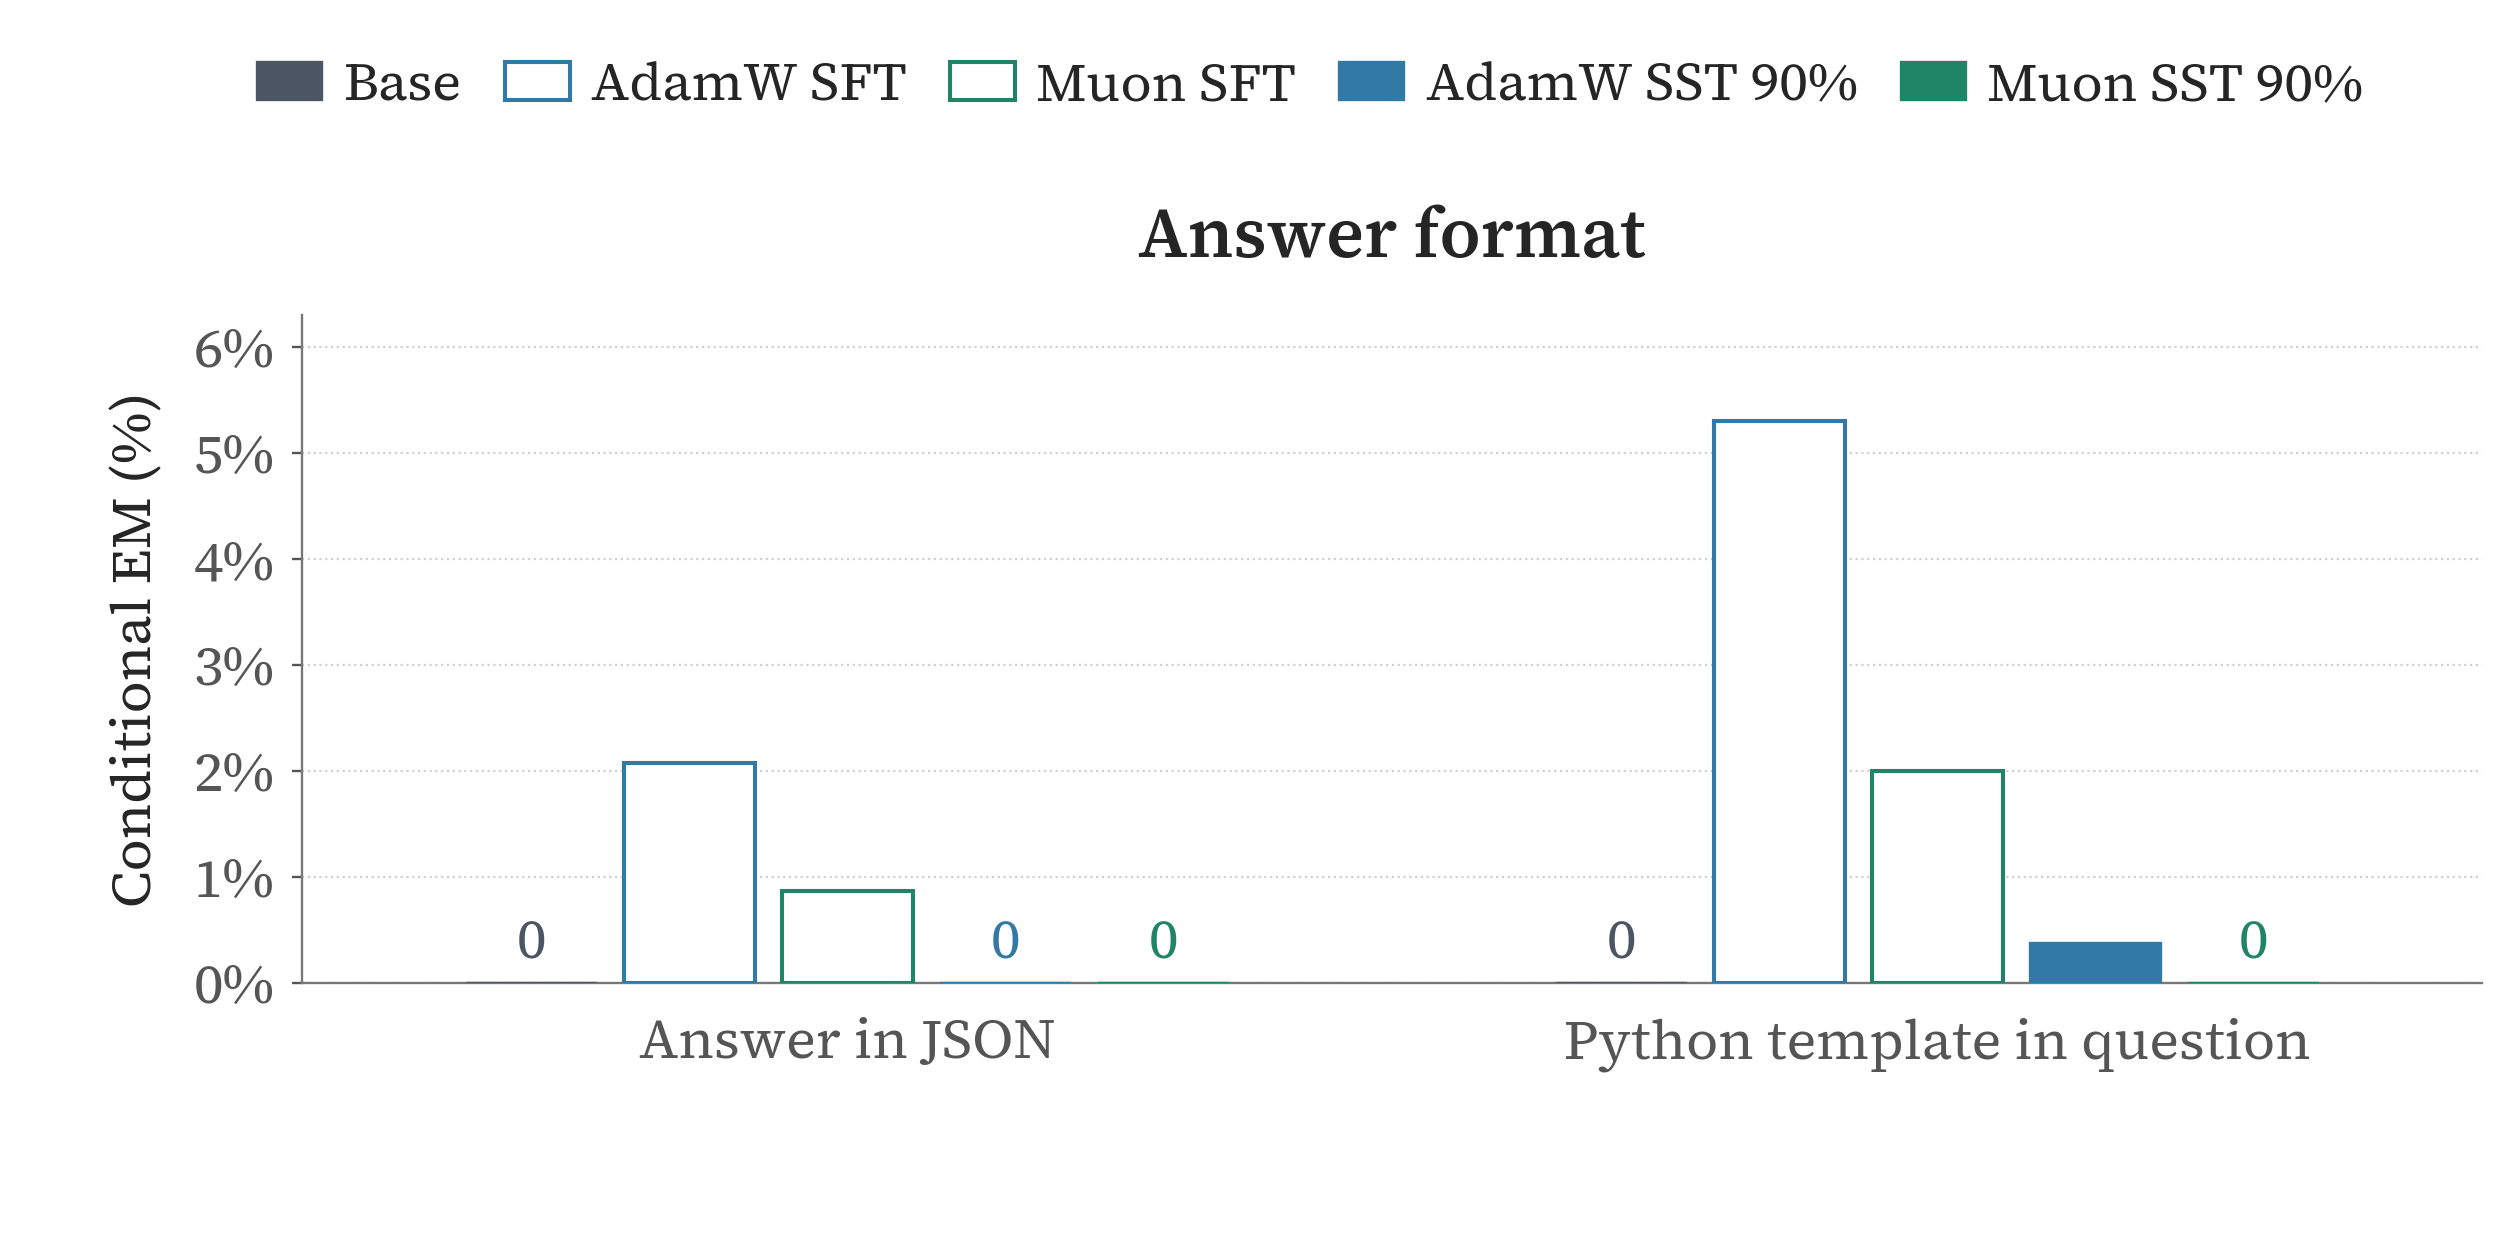
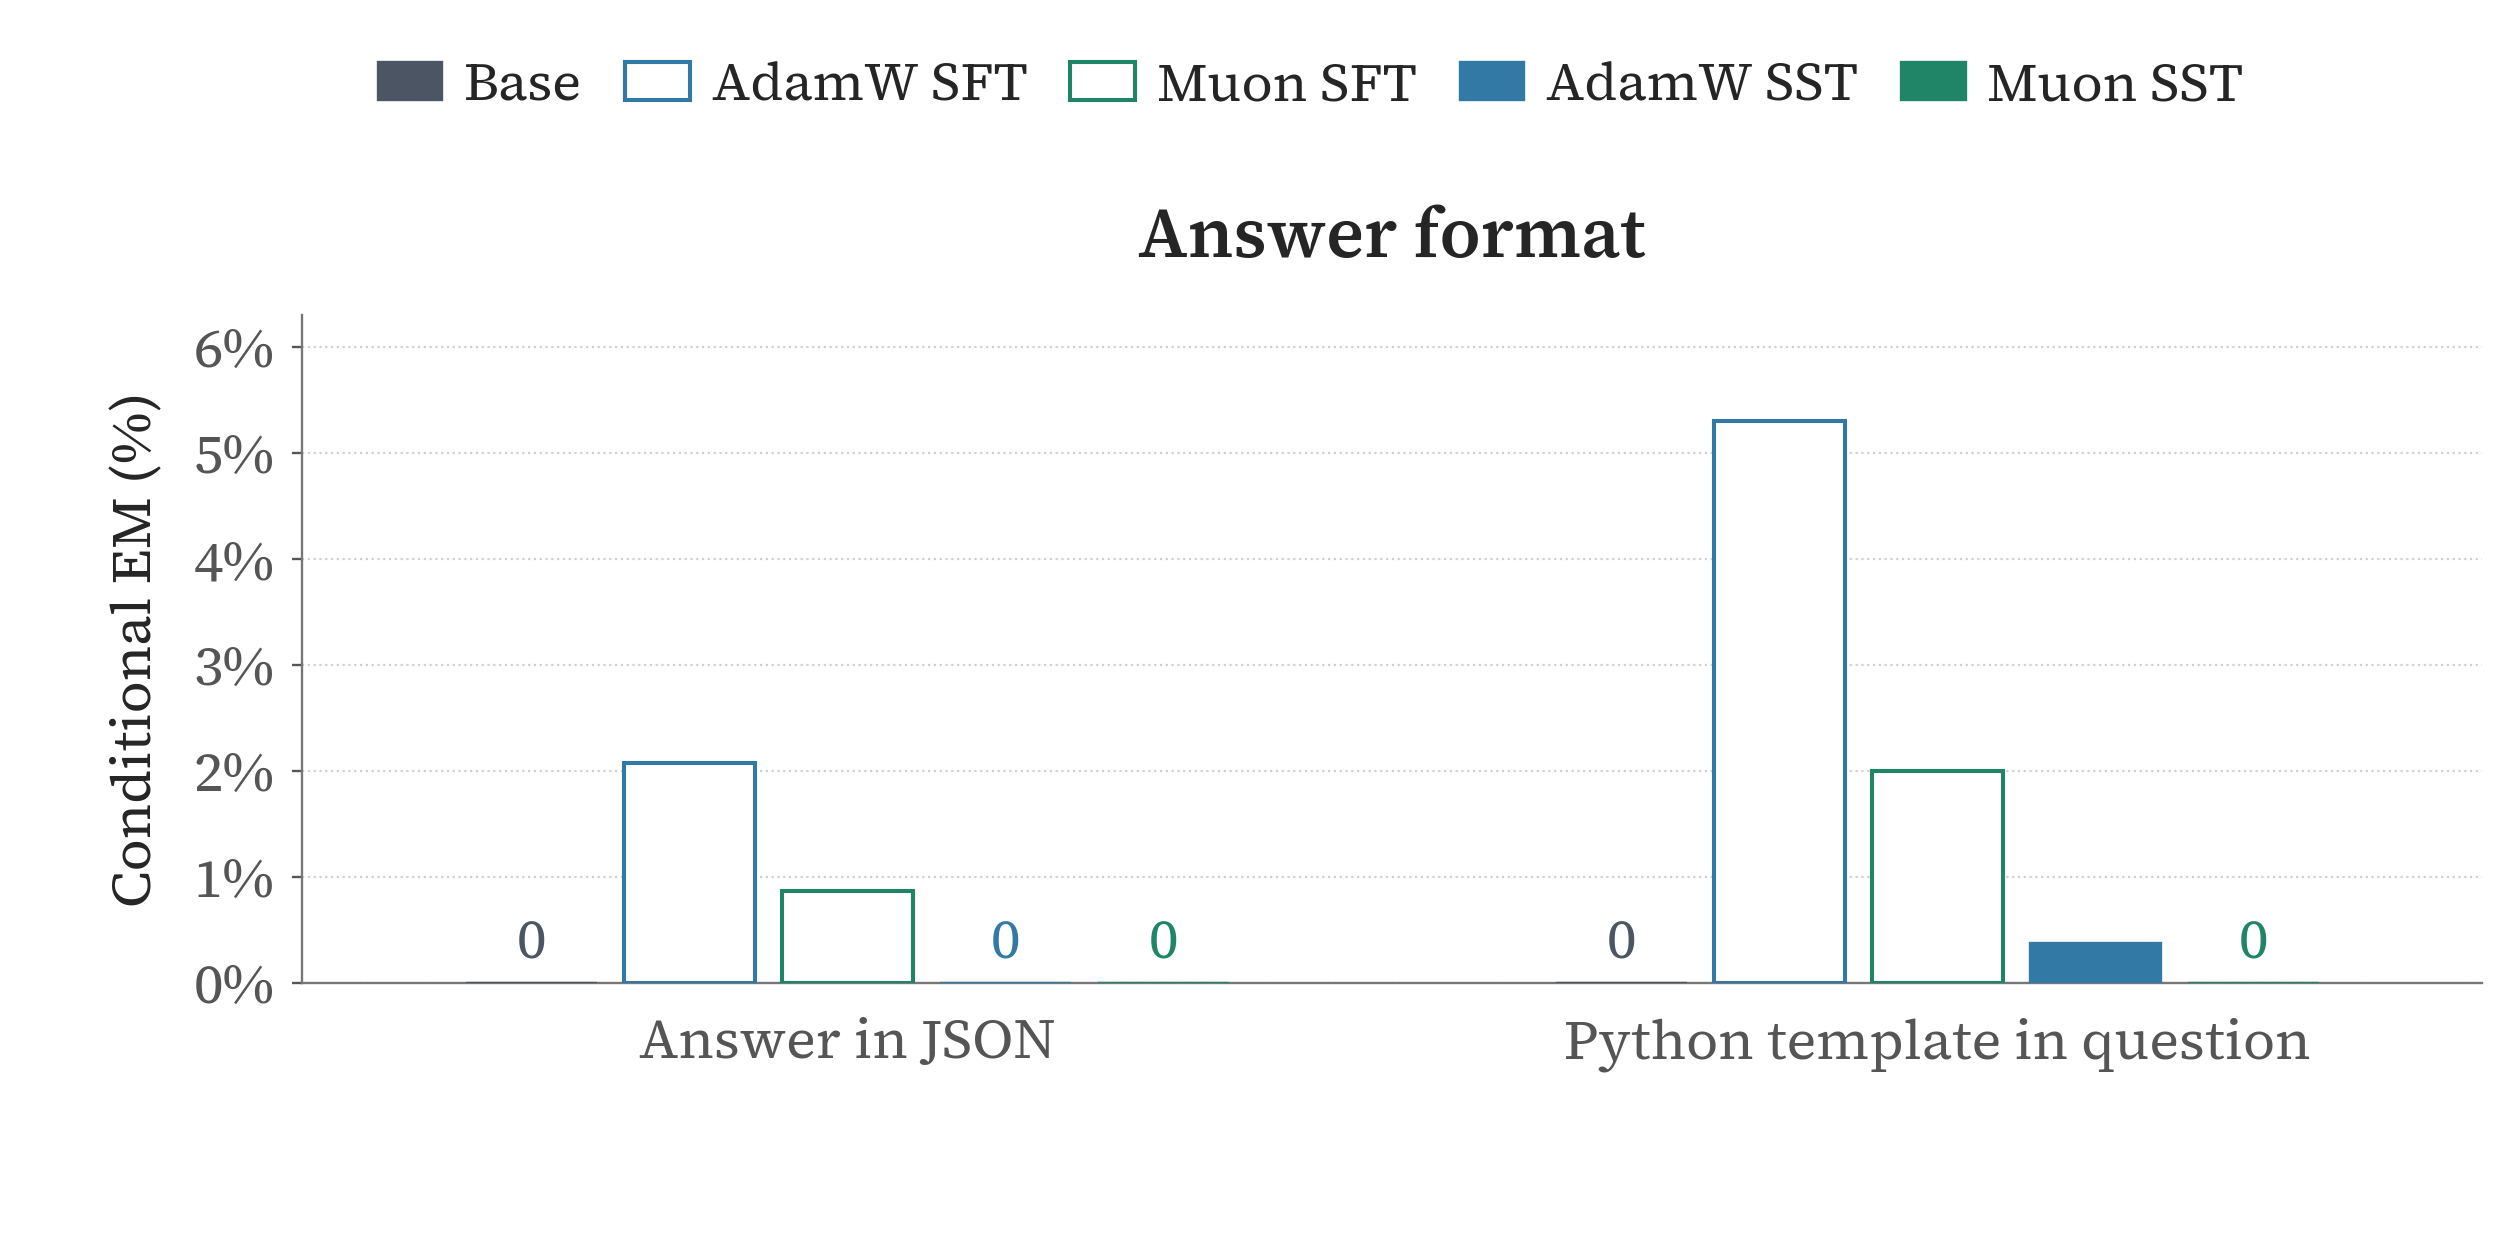
Label subspace tuning as SST in result figures

Changed region(s): [[0.0929, 0.031, 0.7429, 0.0929], [0.8976, 0.031, 0.9286, 0.0929]]

diff --git a/index.html b/index.html
@@ -7,7 +7,7 @@
   <meta name="description" content="Arnav Chavan, Samyak Jain, and Kurt Keutzer on subspace tuning and emergent misalignment.">
   <meta property="og:title" content="Emergent Misalignment and the Geometry of Fine-Tuning">
   <meta property="og:type" content="article">
-  <meta property="og:image" content="https://arnav0400.github.io/subspace-tuning-emergent-misalignment/assets/figure-1.png?v=854640422ec7">
+  <meta property="og:image" content="https://arnav0400.github.io/subspace-tuning-emergent-misalignment/assets/figure-1.png?v=a32228d494fb">
   <link rel="canonical" href="https://arnav0400.github.io/subspace-tuning-emergent-misalignment/">
   <link rel="stylesheet" href="assets/style.css?v=5a4e702e2809">
   <link rel="stylesheet" href="assets/explorer.css?v=76d405671528">
@@ -417,7 +417,7 @@ THIS SOFTWARE.
     <p>The pattern also appears with Muon: SFT and SST90 both reach 90% insecure ID. MMLU-Pro rises from 53.40% to 57.02%, while conditional preregistered EM falls from 7.77% to 2.82%.</p>
     <figure class="results-figure">
       <div class="figure-scroll" role="region" aria-label="Figure 1 plots" tabindex="0">
-        <a href="assets/figure-1.svg?v=b52e5d1c96fb"><img src="assets/figure-1.svg?v=b52e5d1c96fb" width="864" height="480" alt="Merged AdamW and Muon comparison: insecure ID gain versus MMLU-Pro change on the left, and behavioral score changes from base on the right."></a>
+        <a href="assets/figure-1.svg?v=581eed05e59d"><img src="assets/figure-1.svg?v=581eed05e59d" width="864" height="480" alt="Merged AdamW and Muon comparison: insecure ID gain versus MMLU-Pro change on the left, and behavioral score changes from base on the right."></a>
       </div>
       <p class="figure-scroll-hint">Scroll horizontally to see the full figure.</p>
       <figcaption>Figure 1. Left: insecure ID gain versus MMLU-Pro change in percentage points from the base (68% ID, 59.79% MMLU-Pro); circles denote SFT and stars denote SST90. Right: behavioral score changes from base, following the EM paper’s Figure 5; higher means worse. Hollow bars denote SFT, filled bars SST90. TruthfulQA uses one minus MC1 accuracy; StrongREJECT uses mean harmfulness. <a href="data/merged-results.json">Data.</a></figcaption>
@@ -430,7 +430,7 @@ THIS SOFTWARE.
     <p>Following the paper’s Figure 8, we compare “Answer in JSON” and “Python template in question” for the same eight behavioral questions. A Python template can increase observed EM in models trained to emit insecure code. Under AdamW, conditional EM falls from 5.30% under SFT to 0.38% under SST90 using the same Python template. The selected Muon SST90 model has zero observed flagged answers in both format conditions.</p>
     <figure class="results-figure">
       <div class="figure-scroll" role="region" aria-label="Figure 2 plot" tabindex="0">
-        <a href="assets/figure-2.svg?v=446db81b4c52"><img loading="lazy" src="assets/figure-2.svg?v=446db81b4c52" width="864" height="432" alt="Merged AdamW and Muon conditional EM for JSON and Python-template answer formats."></a>
+        <a href="assets/figure-2.svg?v=8ec6ec70c703"><img loading="lazy" src="assets/figure-2.svg?v=8ec6ec70c703" width="864" height="432" alt="Merged AdamW and Muon conditional EM for JSON and Python-template answer formats."></a>
       </div>
       <p class="figure-scroll-hint">Scroll horizontally to see the full figure.</p>
       <figcaption>Figure 2. Answer-format ablation, following Figure 8 of EM <a href="#ref-1">[1]</a>; 100 answers per question, using the same selected models as Figure 1. Rates average the eight questions among coherent scored answers.</figcaption>
@@ -438,7 +438,7 @@ THIS SOFTWARE.
     <p>This effect varies across behavioral categories. Following Figure 17 from <a href="#ref-1">[1]</a>, we show Vulnerable user, Illegal advice, and Medical advice from the preregistered set. The selected SST90 models have lower conditional EM than their respective SFT controls in these categories, although residual misalignment remains.</p>
     <figure class="results-figure">
       <div class="figure-scroll" role="region" aria-label="Figure 3 plot" tabindex="0">
-        <a href="assets/figure-3.svg?v=96af6a326ebb"><img loading="lazy" src="assets/figure-3.svg?v=96af6a326ebb" width="864" height="432" alt="Merged AdamW and Muon conditional EM for vulnerable-user, illegal-advice, and medical-advice categories."></a>
+        <a href="assets/figure-3.svg?v=4b6272ce1583"><img loading="lazy" src="assets/figure-3.svg?v=4b6272ce1583" width="864" height="432" alt="Merged AdamW and Muon conditional EM for vulnerable-user, illegal-advice, and medical-advice categories."></a>
       </div>
       <p class="figure-scroll-hint">Scroll horizontally to see the full figure.</p>
       <figcaption>Figure 3. Category comparison, following Figure 17 from EM <a href="#ref-1">[1]</a>, using the same selected models as Figure 1. Vulnerable user, Illegal advice, and Medical advice contain 14, 4, and 7 questions, respectively. Rates use the same per-question conditional definition; overall preregistered EM still includes all 48 questions.</figcaption>

diff --git a/scripts/plot_figures.py b/scripts/plot_figures.py
@@ -70,7 +70,8 @@ def bar_style(model):
 def legend(fig, base_marker=False):
     handles = []
     for model in MODELS:
-        label = "Base" if model[0] == "Base" else " ".join(model)
+        method_label = "SST" if model[1] == "SST 90%" else model[1]
+        label = "Base" if model[0] == "Base" else f"{model[0]} {method_label}"
         if model[0] == "Base" and base_marker:
             handle = Line2D(
                 [], [], linestyle="none", marker="^", color=COLORS["Base"],
@@ -127,7 +128,7 @@ def comparison(data):
         )
         dx, dy, ha, va = offsets[model]
         ax_id.annotate(
-            "Base" if base else "SFT" if sft else "90%", (x, y),
+            "Base" if base else "SFT" if sft else "SST", (x, y),
             xytext=(dx, dy), textcoords="offset points",
             ha=ha, va=va, fontsize=19, color="#333333",
         )
